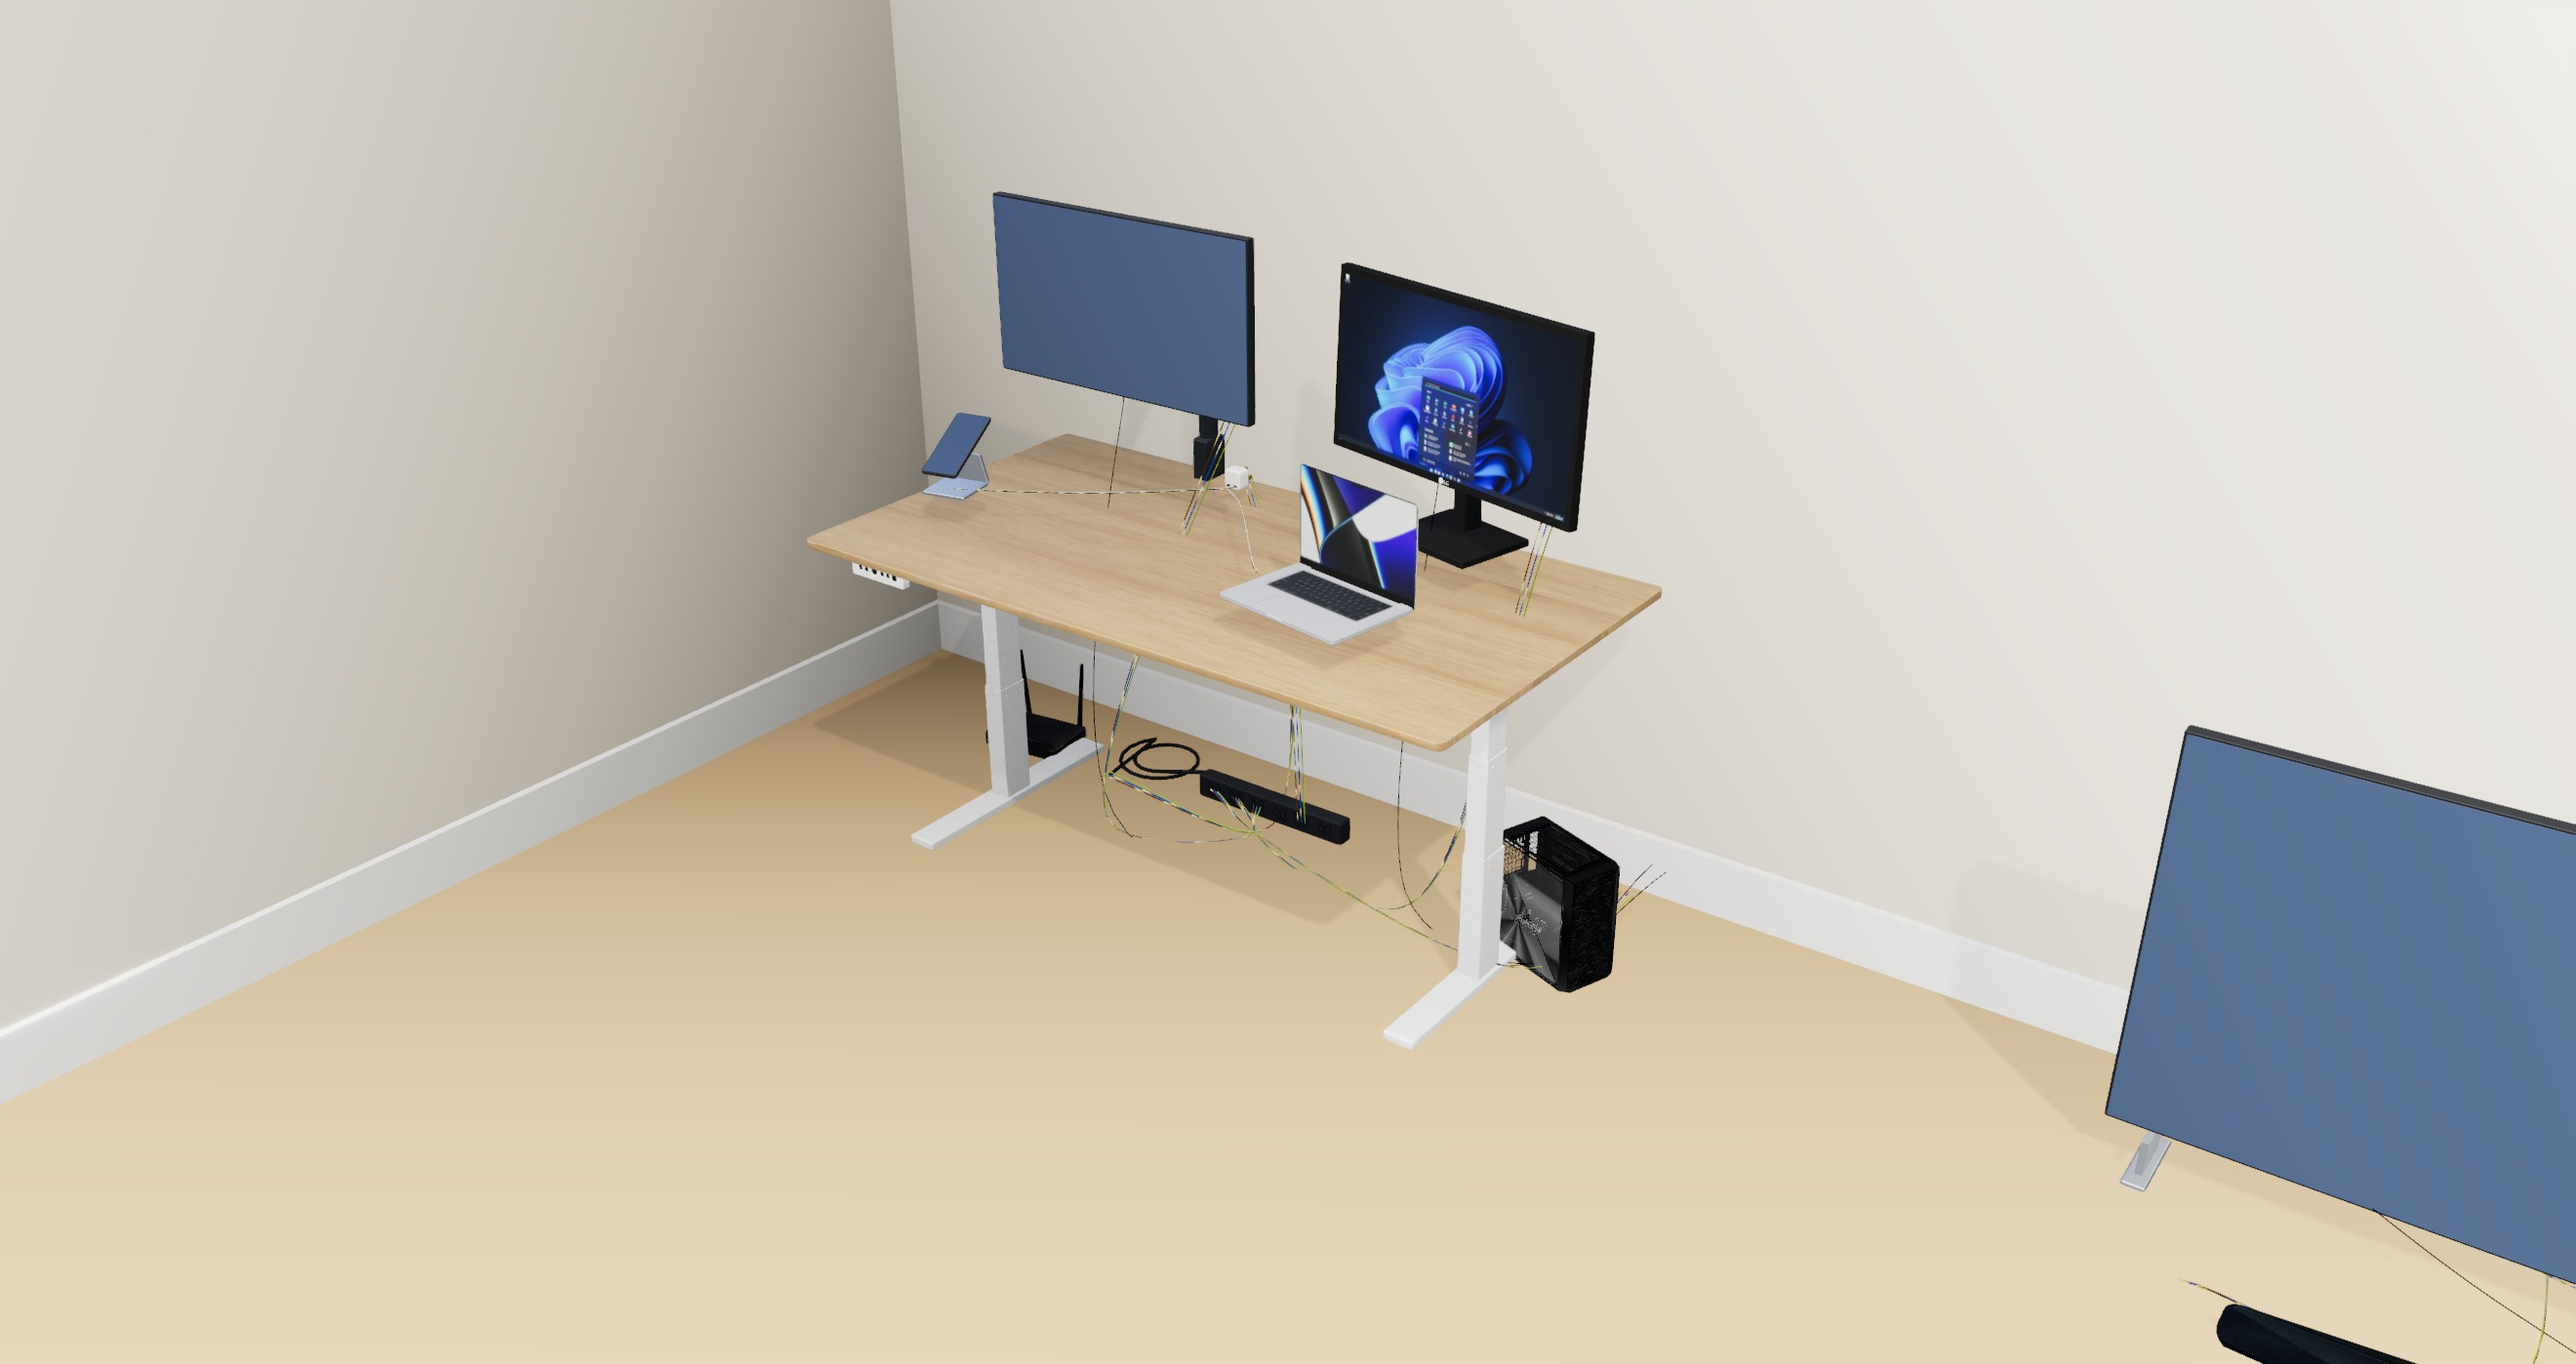
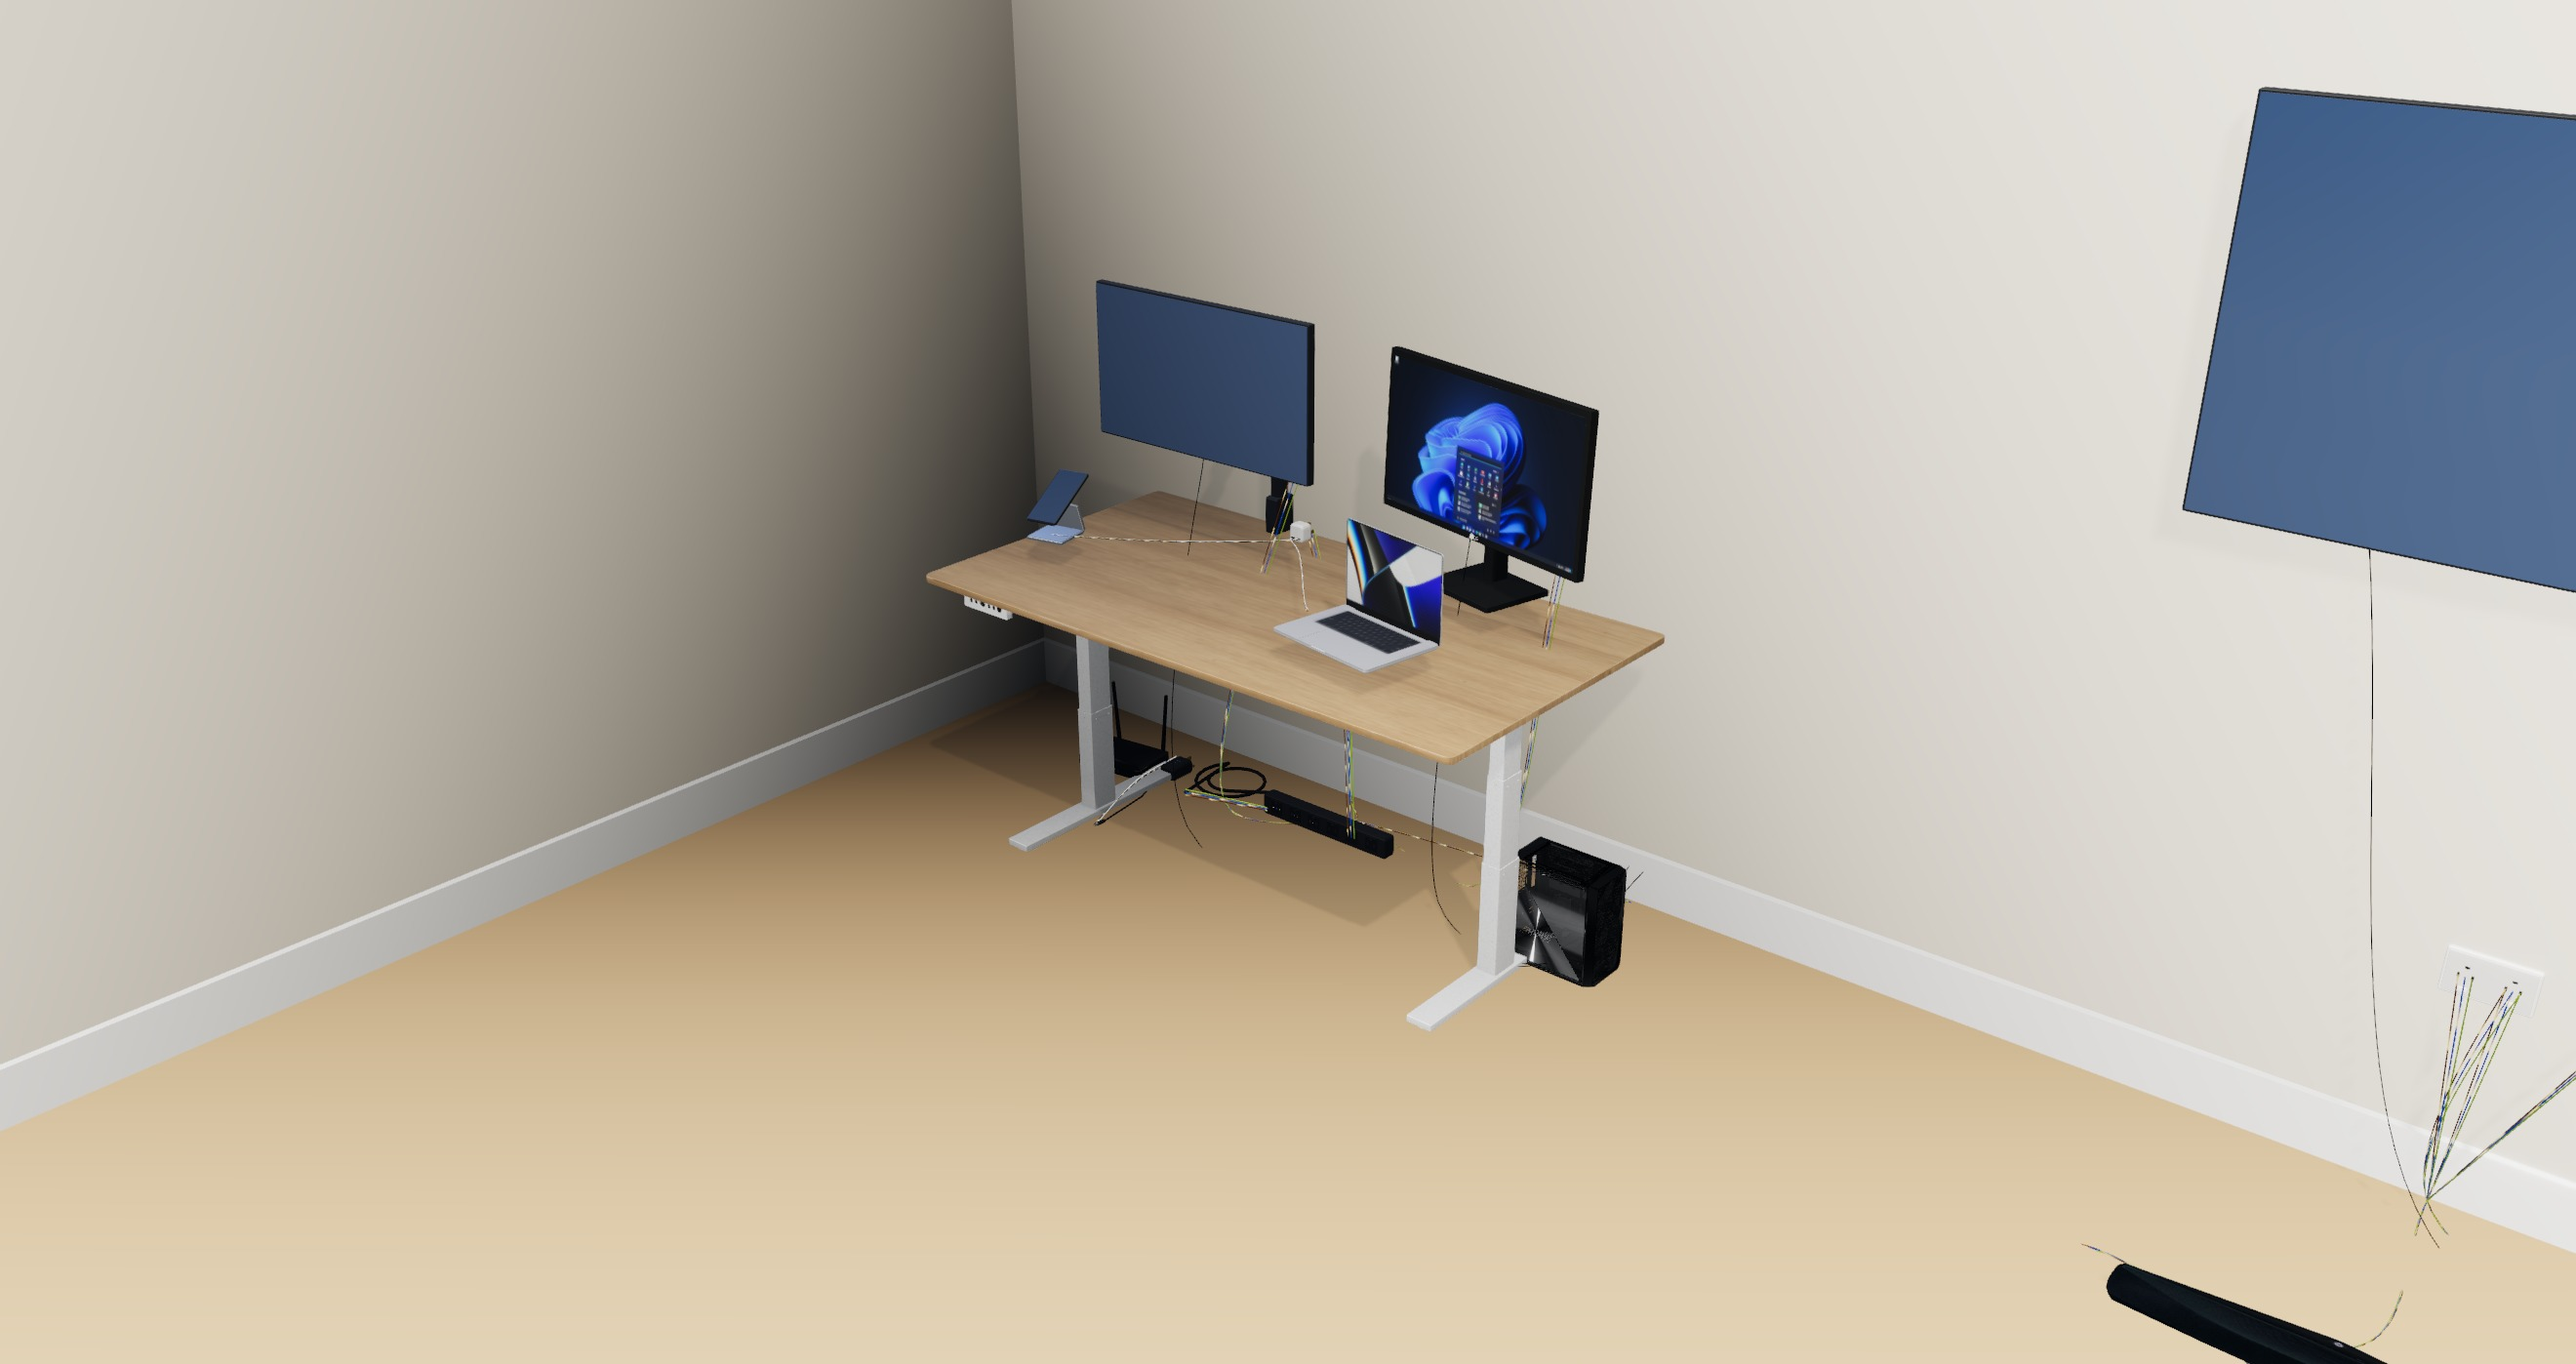
Call it a PlayStation 5, and fix what that exposed
The part was "Games console" while drawing a scan of a PS5 at 104 by 390 by
260 mm, which are a PS5's dimensions. It is named for what it was measured
from. The description says so and says to use it for any console of about
that size, so the name informs rather than misleads.

Two things were wrong underneath that name. The flat option described a
different, smaller console (301 by 70 by 151) rather than the same object
on its side; it is now the upright figure with width and height swapped,
which is what lying a console down actually does to it. And the dock
option went: a dock is not this, nothing used it, and three options where
one is a different product is how a part stops meaning anything.

Renaming it ran the full suite, which caught three real faults in the room
build that the screenshots had not.

The router was wired to mains. Its only electrical ports are v12 and gnd,
so three cores were being joined to terminals that do not exist. It gets
the 12 V brick it really comes with, and the brick sits on the floor.

Six cables ran through solid parts. The routing helper came up in front of
each device, and these carry their inlet on the back, so the last leg
crossed the whole body -- 35 mm into the tower. Runs now come up behind,
clamped clear of the wall. The tower lost a cosmetic 20 degrees of
rotation that put its back face off-axis and defeated that.

The television is on the wall rather than on feet. With feet, every route
[…]

diff --git a/src/io/devices.ts b/src/io/devices.ts
@@ -957,8 +957,17 @@ export function roomSetup(): Doc {
   const psu = b.add('charger-usb-mains', [DX - 150, DH, DZ - DD / 2 + 120], { watts: '65', ports: '2', load: 70 }, [0, 0, 0], 'USB charger')
 
   /* --- under it --- */
-  const pc = b.add('pc-tower', [DX + 660, 0, DZ - DD / 2 + 250], { size: 'midi', psu: '850', gpu: true, load: 35 }, [0, -20, 0], 'Tower')
+  const pc = b.add('pc-tower', [DX + 660, 0, DZ - DD / 2 + 250], { size: 'midi', psu: '850', gpu: true, load: 35 }, [0, 0, 0], 'Tower')
   const net = b.add('router-wifi', [DX - 700, 0, DZ - DD / 2 + 160], { aerials: 4, ports: '4' }, [0, 8, 0], 'Router')
+  /*
+   * The router runs on 12 V, not on mains.
+   *
+   * Its only electrical ports are v12 and gnd, so wiring the three mains
+   * cores into it is wiring them into terminals that do not exist -- which
+   * is what the netlist test caught. It gets the brick it really comes
+   * with, and the brick is what sits on the floor.
+   */
+  const brick = b.add('power-adapter', [DX - 560, 0, DZ - DD / 2 + 120], { volts: '12', amps: 2, plug: 'uk' }, [0, 0, 0], 'Router supply')
 
   /* --- the media end of the same wall --- */
   /*
@@ -969,9 +978,22 @@ export function roomSetup(): Doc {
    * next to a photoscanned desk. Standing it on the floor is the honest way
    * to get the good picture, and it is what most of these actually do.
    */
-  const tv = b.add('tv-set', [3500, 0, 300], { diagonal: '55', stand: 'feet' }, [0, 0, 0], 'Television')
+  /*
+   * On the wall, not on feet.
+   *
+   * Feet put the panel on the floor with its inlet behind them, and every
+   * route to that inlet either goes under a foot or across the panel --
+   * which the clearance test counts as a cable through a part, correctly.
+   * Hung on the wall the cable drops straight down behind it to the socket,
+   * which is both what clears and what anybody with a wall-mounted
+   * television actually has.
+   *
+   * It costs the scan, which only fits the configuration with a stand. That
+   * is moot while models/tv.glb draws nothing anyway.
+   */
+  const tv = b.add('tv-set', [3500, 1150, 60], { diagonal: '55', stand: 'none' }, [0, 0, 0], 'Television')
   const bar = b.add('soundbar', [3500, 0, 620], { watts: 200 }, [0, 0, 0], 'Soundbar')
-  const con = b.add('console-game', [4050, 0, 470], { load: 70 }, [0, -14, 0], 'Console')
+  const con = b.add('console-game', [4050, 0, 470], { load: 70 }, [0, 0, 0], 'PlayStation 5')
 
   /* --- mains --- */
   /* Two sockets on the back wall at 450, one behind the desk and one behind
@@ -983,22 +1005,42 @@ export function roomSetup(): Doc {
   const CORES: [string, string][] = [['l', BROWN], ['n', BLUE_N], ['e', GREEN_E]]
   const FLOORY = 28
 
-  /** Down to the floor, across, and back up. */
-  const run = (from: string, to: string, ports: [string, string], col: string, mm2: number) => {
+  /**
+   * Down to the floor, across, and back up.
+   *
+   * `behind` is how far short of the target to come up, and it is not
+   * decoration. These parts carry their mains inlet on the back face, so a
+   * waypoint in front of one means the last leg crosses the whole body:
+   * the clearance test caught three cables through the tower and three
+   * through the television doing exactly that. Coming up behind the part
+   * is both what clears it and what actually happens behind a desk.
+   *
+   * Clamped to 70 so nothing routes into the wall, which is at zero.
+   */
+  const run = (
+    from: string,
+    to: string,
+    ports: [string, string],
+    col: string,
+    mm2: number,
+    behind = -80,
+  ) => {
     const a = at(from)
     const c = at(to)
+    const lane = Math.max(70, c[2] + behind)
     b.wireVia([from, ports[0]], [to, ports[1]], [
-      [a[0], FLOORY, a[2] + 80],
-      [c[0], FLOORY, c[2] + 80],
+      [a[0], FLOORY, Math.max(70, a[2] - 80)],
+      [c[0], FLOORY, lane],
     ], col, mm2)
   }
 
   /* Socket to lead, then everything at the desk off the lead's six ways. */
   for (const [core, col] of CORES) run(w1, lead, ['a' + core, core], col, 2.5)
-  for (const [core, col] of CORES) run(lead, pc, ['1' + core, core], col, 1.5)
+  for (const [core, col] of CORES) run(lead, pc, ['1' + core, core], col, 1.5, -280)
   for (const [core, col] of CORES) run(lead, mon1, ['2' + core, core], col, 0.75)
   for (const [core, col] of CORES) run(lead, mon2, ['3' + core, core], col, 0.75)
-  for (const [core, col] of CORES) run(lead, net, ['4' + core, core], col, 0.75)
+  b.wire([brick, 'p'], [net, 'v12'], WHITE, 0.5)
+  b.wire([brick, 'n'], [net, 'gnd'], BLACK, 0.5)
   /* The charger is plugged straight into the lead: no floor, no waypoints. */
   for (const [core, col] of CORES) b.wire([lead, '5' + core], [psu, core], col, 0.75)
 
@@ -1013,15 +1055,15 @@ export function roomSetup(): Doc {
    * technically a route, visibly nothing anybody has ever seen behind a
    * television. Down the wall, along it, then out to the device.
    */
-  const wallRun = (to: string, ports: [string, string], col: string, mm2: number) => {
+  const wallRun = (to: string, ports: [string, string], col: string, mm2: number, behind = 70) => {
     const c = at(to)
+    const lane = Math.max(70, c[2] - behind)
     b.wireVia([w2, ports[0]], [to, ports[1]], [
       [at(w2)[0], FLOORY, 70],
-      [c[0], FLOORY, 70],
-      [c[0], FLOORY, c[2] - 70],
+      [c[0], FLOORY, lane],
     ], col, mm2)
   }
-  for (const [core, col] of CORES) wallRun(tv, ['a' + core, core], col, 1.5)
+  for (const [core, col] of CORES) run(w2, tv, ['a' + core, core], col, 1.5, 0)
   for (const [core, col] of CORES) wallRun(bar, ['b' + core, core], col, 1.0)
   for (const [core, col] of CORES) wallRun(con, ['b' + core, core], col, 1.0)
 

diff --git a/src/parts/catalog/setup2.ts b/src/parts/catalog/setup2.ts
@@ -551,24 +551,27 @@ const console_: PartDef = {
     str(p, 'style', 'tower') === 'tower'
       ? { url: 'models/ps5-console.glb', fit: 'bbox', credit: { title: 'PS5', author: 'rtql8d', license: 'CC-BY-4.0', source: 'https://sketchfab.com/3d-models/ps5-d788de3735964151a3e24fd59c0f1956' } }
       : undefined,
-  name: 'Games console',
+  name: 'PlayStation 5',
   category: 'computer',
-  blurb: 'Upright or flat, and hot either way',
-  tags: ['console', 'games console', 'playstation', 'xbox', 'switch', 'gaming', 'hdmi', 'av', 'tv'],
+  blurb: '390 mm of console, upright or flat, and hot either way',
+  tags: ['ps5', 'playstation', 'playstation 5', 'console', 'games console', 'xbox', 'series x', 'switch', 'gaming', 'hdmi', 'av', 'tv'],
   doc: {
     price: 480,
     description:
-      'A console. It wants two things from a layout and they fight: clearance for the intake, and somewhere out of the way. This is a box of the right size with the vents on the right faces, so the clearance is something you can see.',
+      'A PlayStation 5, at 104 by 390 by 260 mm. It wants two things from a layout and they fight: clearance for the intake, and somewhere out of the way.\n\nUpright it is drawn with a scan of the real console, so the shape you build around is the shape. Lying flat it is the same object on its side, drawn as the box it is, because the scan is of a console standing up.\n\nUse it for any console of about this size. The name is the one it was measured from.',
   },
   params: [
     REGION_PARAM,
-    { key: 'style', label: 'Style', type: 'enum', default: 'tower', group: 'Console', options: [{ value: 'tower', label: 'Upright' }, { value: 'flat', label: 'Flat' }, { value: 'handheld-dock', label: 'Dock' }] },
+    { key: 'style', label: 'Standing', type: 'enum', default: 'tower', group: 'Console', options: [{ value: 'tower', label: 'Upright' }, { value: 'flat', label: 'On its side' }] },
     { key: 'on', label: 'On', type: 'bool', default: true, group: 'Control' },
     { key: 'load', label: 'Load', type: 'number', unit: '%', default: 70, min: 0, max: 100, step: 5, group: 'Control' },
   ],
   solids: (p) => {
     const style = str(p, 'style', 'tower')
-    const dim: Record<string, Vec3> = { tower: [104, 390, 260], flat: [301, 70, 151], 'handheld-dock': [104, 175, 50] }
+    /* One object, two ways up. Flat is the upright figure with width and
+       height swapped, which is what lying a console down actually does to
+       it; the old numbers here described a different, smaller console. */
+    const dim: Record<string, Vec3> = { tower: [104, 390, 260], flat: [390, 104, 260] }
     const [W, H, D] = dim[style] ?? dim.tower
     const on = bool(p, 'on', true)
     const out: Solid[] = [
@@ -587,7 +590,10 @@ const console_: PartDef = {
     return out
   },
   ports: (p) => {
-    const dim: Record<string, Vec3> = { tower: [104, 390, 260], flat: [301, 70, 151], 'handheld-dock': [104, 175, 50] }
+    /* One object, two ways up. Flat is the upright figure with width and
+       height swapped, which is what lying a console down actually does to
+       it; the old numbers here described a different, smaller console. */
+    const dim: Record<string, Vec3> = { tower: [104, 390, 260], flat: [390, 104, 260] }
     const [, H, D] = dim[str(p, 'style', 'tower')] ?? dim.tower
     return [
       ...mainsPorts([-40, H * 0.12, -D / 2 - 6], [0, 0, -1], '', [13, 0, 0]),

diff --git a/src/routes/SetupShow.tsx b/src/routes/SetupShow.tsx
@@ -40,7 +40,7 @@ const KIT: Appliance[] = [
   { key: 'mon1', label: 'Monitor, 27"', defId: 'monitor-desk', params: { diagonal: '27', hz: '144' }, on: true },
   { key: 'mon2', label: 'Monitor, 27"', defId: 'monitor-desk', params: { diagonal: '27', hz: '60' }, on: true },
   { key: 'tv', label: 'Television, 55"', defId: 'tv-set', params: { diagonal: '55' }, on: true },
-  { key: 'console', label: 'Games console', defId: 'console-game', params: { load: 70 }, on: true },
+  { key: 'console', label: 'PlayStation 5', defId: 'console-game', params: { load: 70 }, on: true },
   { key: 'bar', label: 'Soundbar', defId: 'soundbar', params: { watts: 200 }, on: true },
   { key: 'psu', label: 'USB charger', defId: 'charger-usb-mains', params: { watts: '65', load: 70 }, on: true },
   { key: 'heat', label: 'Fan heater, 3 kW', defId: 'heater-fan', params: { watts: '3000' }, on: false, hint: 'Try this one' },

diff --git a/src/io/assemblies.ts b/src/io/assemblies.ts
@@ -360,7 +360,7 @@ export function ps5Stand(): Doc {
   for (const sx of [-1, 1] as const) b.beamX(sx * 0, SHELF - 14, 0, PX * 2 - 20)
 
   /* --- the console --- */
-  b.add('console-game', [0, SHELF + 9, 0], { style: 'tower', on: true, load: 70 }, [0, 0, 0], 'Console')
+  b.add('console-game', [0, SHELF + 9, 0], { style: 'tower', on: true, load: 70 }, [0, 0, 0], 'PlayStation 5')
 
   /* --- what holds it together --- */
   const joints: [number, number, number][] = []
